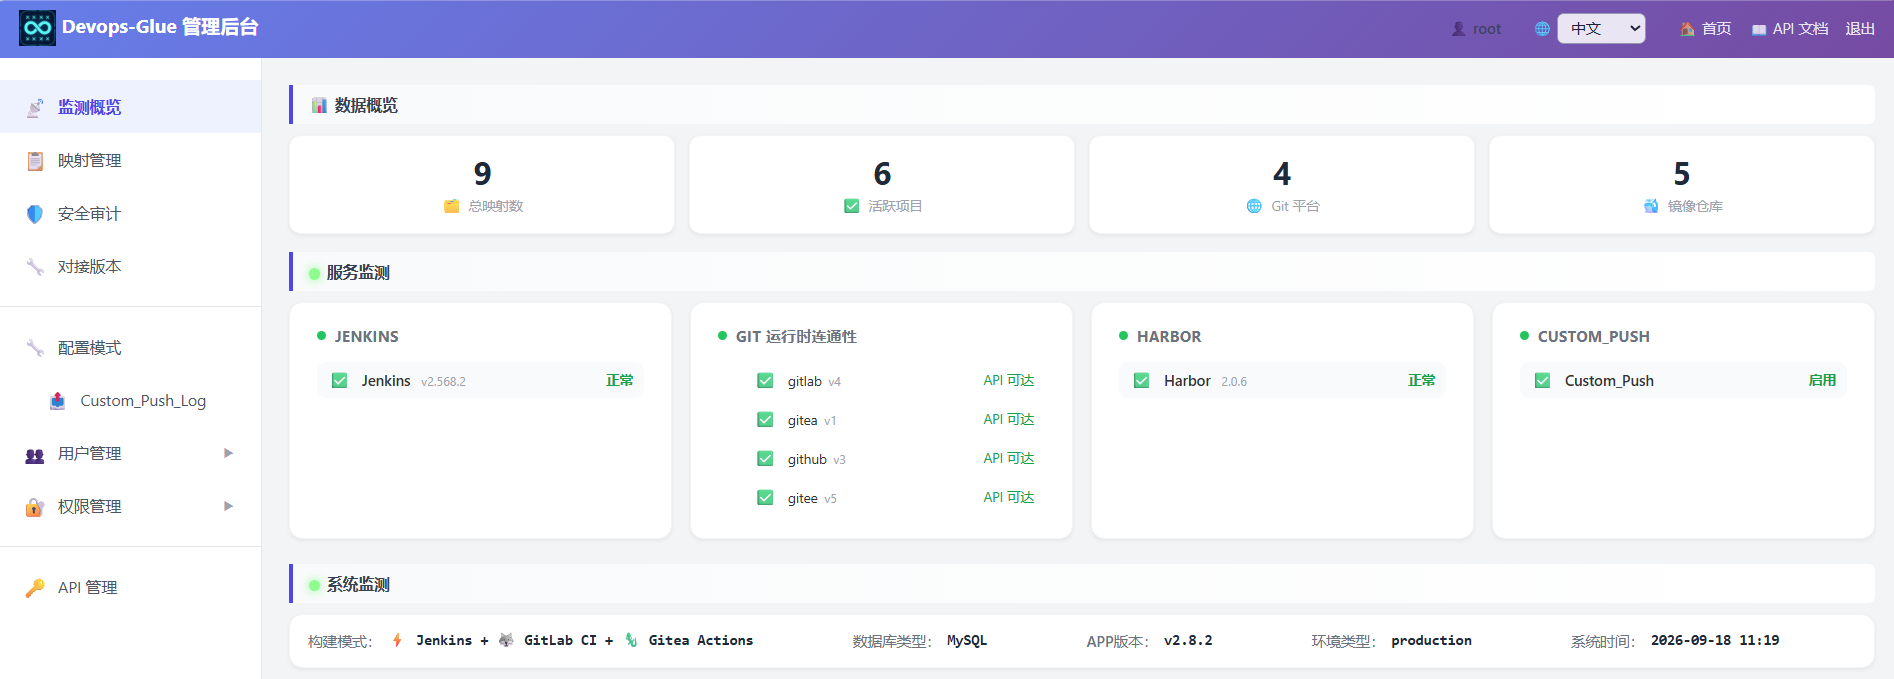
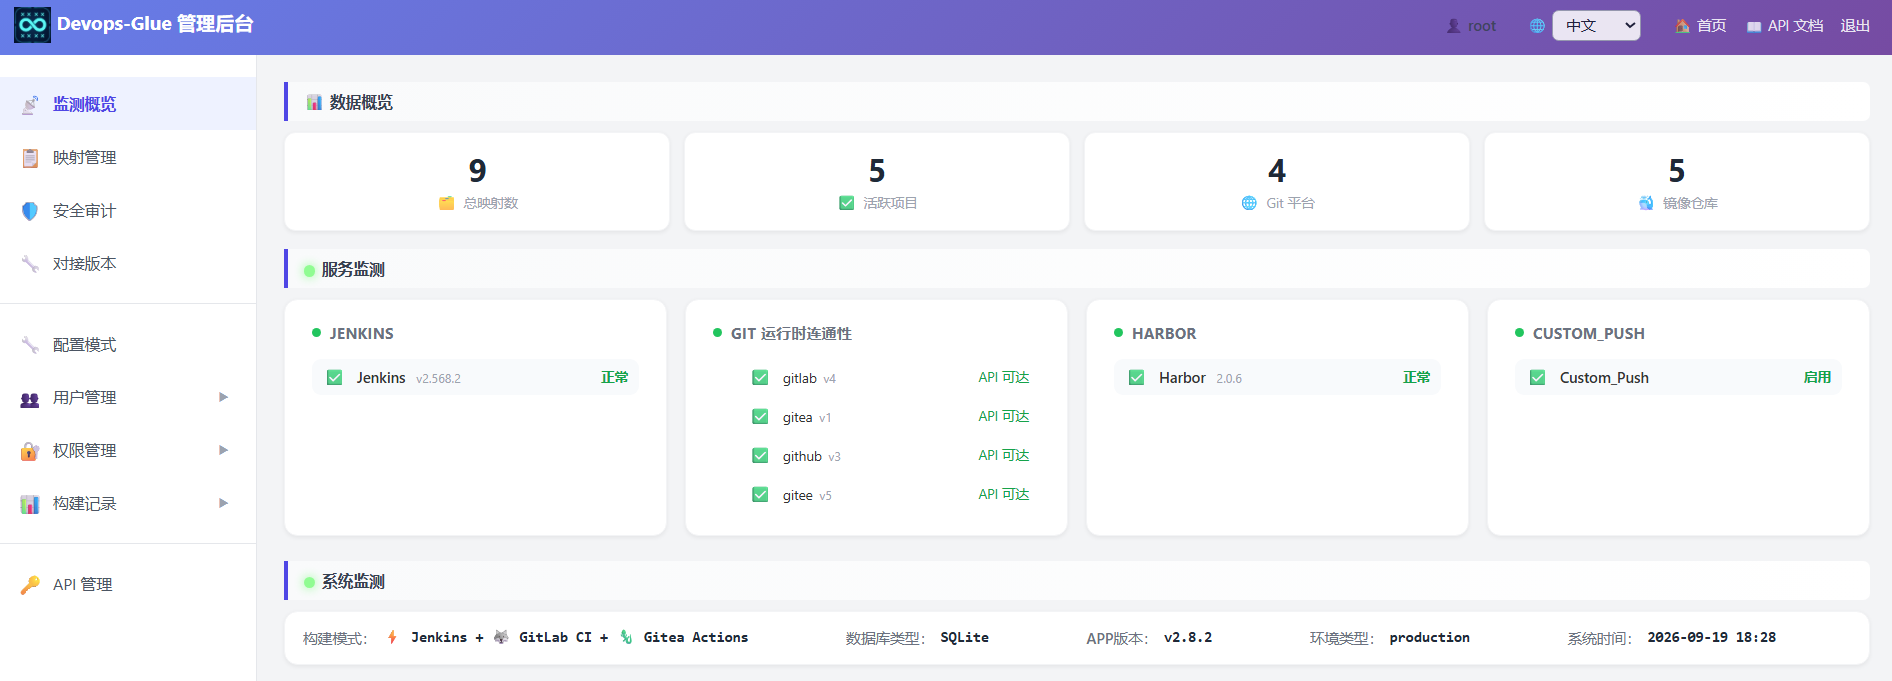
feat: split health check static/probe, friendly error logs, fix first-paint i18n keys

diff --git a/public/assets/admin.js b/public/assets/admin.js
@@ -1,6 +1,7 @@
 const LOGIN_API    = '/api/admin/login';
 const MAP_API      = '/api/admin/job_git_map';
 const HEALTH_API   = '/api/health';
+const HEALTH_STATIC_API = '/api/health/static';
 const MAP_LIST_API  = '/api/main/map/list';
 const VERSIONS_API  = '/api/admin/platform_versions';
 let platforms = [];
@@ -340,7 +341,7 @@ async function loadMonitor() {
 
     // 调用受保护的 /api/health，需要带上 Authorization 头
 
-    function setSvc(iconId, nameId, statId, dotId, ok, ver, label, title) {
+    function setSvc(iconId, nameId, statId, dotId, ok, ver, label, title, i18nKey) {
         const icon = document.getElementById(iconId);
         const name = document.getElementById(nameId);
         const stat = document.getElementById(statId);
@@ -350,16 +351,29 @@ async function loadMonitor() {
             stat.textContent = label;
             stat.className = 'svc-stat ' + (ok===true?'ok':ok===null?'off':'err');
             if (title) stat.title = title; else stat.removeAttribute('title');
+            // 记录动态状态文本对应的 i18n key：语言切换时 _applyToDOM() 只会重翻 textContent
+            //（不影响 class/图标），从而实现"切语言只翻译、不重新探测、不产生重复日志"。
+            // 该 key 同时覆盖了 HTML 默认占位 common.detecting，避免切语言后显示回"检测中…"。
+            // 若该状态文本无翻译 key，则移除标记防止被错误覆盖。
+            if (i18nKey) stat.setAttribute('data-i18n', i18nKey);
+            else stat.removeAttribute('data-i18n');
         }
         if (dot)  { dot.className = 'dot ' + (ok===true?'dot-ok':ok===null?'dot-off':'dot-err'); }
         if (name && ver) name.innerHTML = (name.dataset.base || name.textContent) + ' <span class="svc-ver">' + esc(ver) + '</span>';
     }
 
+    // 并行发起：静态信息（纯 DB/配置，秒回）与外部探测（可能很慢），各自独立渲染
+    const staticReq = fetch(HEALTH_STATIC_API, { headers: authHeaders() });
+    const probeReq  = fetch(HEALTH_API, { headers: authHeaders() });
+
+    // ── 阶段一：立即渲染不依赖外部探测的部分（数据概览 + 系统监测 + Custom_Push）──
     try {
-        const res = await fetch(HEALTH_API, { headers: authHeaders() });
+        const res = await staticReq;
         if (handle401(res)) return;
         const data = await res.json();
-        const chk = data.checks || {};
+        // 静态卡片依赖 __.t() 翻译（如构建模式、数据库类型），首帧语言包可能尚未加载完成，
+        // 先等 i18n 就绪，避免显示翻译 key，且不重复探测外部平台。
+        await __.ready();
         const st  = data.stats || {};
 
         // 统计卡片
@@ -395,12 +409,32 @@ async function loadMonitor() {
         if (sysEnvType)   sysEnvType.textContent   = data.app_env || '—';
         if (sysTime)      sysTime.textContent      = (data.time ? String(data.time).substring(0, 16) : '—');
 
+        // Custom_Push（功能开关检测，不依赖外部网络探测）
+        const cpProviders = data.custom_push_providers || [];
+        const cpEnabled = data.custom_push_enabled || false;
+        const cpOk = cpEnabled && cpProviders.length > 0;
+        const cpLabel = cpEnabled ? __.t('common.enabled') : __.t('common.disabled');
+        const cpKey = cpEnabled ? 'common.enabled' : 'common.disabled';
+        setSvc('icon-custom-push', 'name-custom-push', 'stat-custom-push', 'dot-custom-push', cpOk || null, '', cpLabel, '', cpKey);
+        applyBuildRecordsMenuVisibility(cpEnabled);
+    } catch (e) {
+        // 静态信息失败：保留各卡片占位（"检测中…"/"—"），不整体置错，等待探测阶段
+    }
+
+    // ── 阶段二：外部平台探测结果，独立于静态部分，各卡各自更新 ──
+    try {
+        const res = await probeReq;
+        if (handle401(res)) return;
+        const data = await res.json();
+        const chk = data.checks || {};
+
         // Jenkins
         const jRaw = chk.jenkins;
         const jOk  = jRaw === true;
         const jVer = chk.jenkins_version || '';
         const jLabel = jOk ? __.t('common.ok') : jRaw===null ? __.t('common.na') : __.t('common.unreachable');
-        setSvc('icon-jenkins', 'name-jenkins', 'stat-jenkins', 'dot-jenkins', jRaw, jVer ? 'v'+jVer : '', jLabel);
+        const jKey = jOk ? 'common.ok' : (jRaw === null ? 'common.na' : 'common.unreachable');
+        setSvc('icon-jenkins', 'name-jenkins', 'stat-jenkins', 'dot-jenkins', jRaw, jVer ? 'v'+jVer : '', jLabel, '', jKey);
 
         // Git 平台
         const gitRows = document.getElementById('git-rows');
@@ -408,21 +442,22 @@ async function loadMonitor() {
         const dotGit = document.getElementById('dot-git');
         if (gitData === null || gitData === undefined) {
             dotGit.className = 'dot dot-off';
-            gitRows.innerHTML = '<div class="svc-row parent"><span class="svc-icon">⚪</span><span class="svc-name">' + __.t('monitor.git_platforms') + '</span><span class="svc-stat off">' + __.t('monitor.git_no_ref') + '</span></div>';
+            gitRows.innerHTML = '<div class="svc-row parent"><span class="svc-icon">⚪</span><span class="svc-name">' + __.t('monitor.git_platforms') + '</span><span class="svc-stat off" data-i18n="monitor.git_no_ref">' + __.t('monitor.git_no_ref') + '</span></div>';
         } else if (Array.isArray(gitData) && gitData.length > 0) {
             dotGit.className = gitData.every(g=>g.reachable) ? 'dot dot-ok' : 'dot dot-err';
             gitRows.innerHTML = gitData.map(g => {
                 const ok = g.reachable;
-                const label = ok ? __.t('monitor.git_reachable') : __.t('monitor.git_unreachable');
+                const okKey = ok ? 'monitor.git_reachable' : 'monitor.git_unreachable';
+                const label = __.t(okKey);
                 return '<div class="svc-row child">' +
                     '<span class="svc-icon">' + (ok ? '✅' : '❌') + '</span>' +
                     '<span class="svc-name">' + esc(g.name) + '<span class="svc-ver">' + esc(g.api_version || '') + '</span></span>' +
-                    '<span class="svc-stat ' + (ok?'ok':'err') + '">' + label + '</span>' +
+                    '<span class="svc-stat ' + (ok?'ok':'err') + '" data-i18n="' + okKey + '">' + label + '</span>' +
                 '</div>';
             }).join('') || '<div class="svc-row child"><span class="svc-icon">⚪</span><span class="svc-name">' + __.t('js.no_configured_platform') + '</span></div>';
         } else {
             dotGit.className = 'dot dot-off';
-            gitRows.innerHTML = '<div class="svc-row parent"><span class="svc-icon">⚪</span><span class="svc-name">' + __.t('monitor.git_platforms') + '</span><span class="svc-stat off">' + __.t('common.unknown') + '</span></div>';
+            gitRows.innerHTML = '<div class="svc-row parent"><span class="svc-icon">⚪</span><span class="svc-name">' + __.t('monitor.git_platforms') + '</span><span class="svc-stat off" data-i18n="common.unknown">' + __.t('common.unknown') + '</span></div>';
         }
 
         // Harbor
@@ -430,25 +465,16 @@ async function loadMonitor() {
         const hOk = hOkRaw === true;
         const hVer = chk.harbor_version || '';
         const hLabel = hOk ? __.t('common.ok') : hOkRaw===null ? __.t('common.not_configured') : __.t('common.unreachable');
-        setSvc('icon-harbor', 'name-harbor', 'stat-harbor', 'dot-harbor', hOk, hVer, hLabel, '');
-
-        // Custom_Push
-        const cpProviders = data.custom_push_providers || [];
-        const cpEnabled = data.custom_push_enabled || false;
-        const cpOk = cpEnabled && cpProviders.length > 0;
-        const cpLabel = cpEnabled
-            ? __.t('common.enabled')
-            : __.t('common.disabled');
-        setSvc('icon-custom-push', 'name-custom-push', 'stat-custom-push', 'dot-custom-push', cpOk || null, '', cpLabel);
-        applyBuildRecordsMenuVisibility(cpEnabled);
-
-    } catch(e) {
-        const msg = e.name === 'AbortError' ? __.t('js.timeout') : __.t('js.cannot_connect');
-        setSvc('icon-jenkins', 'name-jenkins', 'stat-jenkins', 'dot-jenkins', false, '', msg);
+        const hKey = hOk ? 'common.ok' : (hOkRaw === null ? 'common.not_configured' : 'common.unreachable');
+        setSvc('icon-harbor', 'name-harbor', 'stat-harbor', 'dot-harbor', hOk, hVer, hLabel, '', hKey);
+    } catch (e) {
+        const ek = e.name === 'AbortError' ? 'js.timeout' : 'js.cannot_connect';
+        const msg = __.t(ek);
+        setSvc('icon-jenkins', 'name-jenkins', 'stat-jenkins', 'dot-jenkins', false, '', msg, '', ek);
         document.getElementById('dot-git').className = 'dot dot-err';
-        document.getElementById('git-rows').innerHTML = '<div class="svc-row parent"><span class="svc-icon">❌</span><span class="svc-name">' + __.t('monitor.git_platforms') + '</span><span class="svc-stat err">' + msg + '</span></div>';
-        setSvc('icon-harbor', 'name-harbor', 'stat-harbor', 'dot-harbor', false, '', msg);
-        setSvc('icon-custom-push', 'name-custom-push', 'stat-custom-push', 'dot-custom-push', false, '', msg);
+        document.getElementById('git-rows').innerHTML = '<div class="svc-row parent"><span class="svc-icon">❌</span><span class="svc-name">' + __.t('monitor.git_platforms') + '</span><span class="svc-stat err" data-i18n="' + ek + '">' + msg + '</span></div>';
+        setSvc('icon-harbor', 'name-harbor', 'stat-harbor', 'dot-harbor', false, '', msg, '', ek);
+        // Custom_Push 属静态（功能开关）阶段，在此不再标错
     }
 }
 
@@ -2919,8 +2945,10 @@ document.addEventListener('i18n-changed', function() {
     var activeTab = document.querySelector('.sidebar .menu-item.active');
     if (activeTab) {
         var tabName = activeTab.getAttribute('data-tab');
-        if (tabName === 'monitor') loadMonitor();
-        else if (tabName === 'mapping') { if (currentMapView === 'topology') loadTopology(); else loadMaps(); }
+        // monitor：语言切换时不再重复调用 loadMonitor()。健康检查用于探测外部平台连通性，
+        // 与语言无关；且它会串行探测各平台（可能耗时数秒、失败时打印日志），重复触发会带来
+        // 重复的 /api/health 请求（日志翻倍）。进入 monitor 页时 switchTab 已加载过一次。
+        if (tabName === 'mapping') { if (currentMapView === 'topology') loadTopology(); else loadMaps(); }
         else if (tabName === 'security') loadSecurityChecks();
         else if (tabName === 'versions') loadVersions();
         else if (tabName === 'mode') loadSettings();

diff --git a/public/assets/i18n.js b/public/assets/i18n.js
@@ -22,6 +22,10 @@
 
     let currentLang = 'zh-CN';
     let messages = {};
+    // 语言包就绪 Promise：_load 的 XHR 完成（成功或失败）后 resolve，
+    // 供依赖 __.t() 的动态渲染（如监测页静态卡片）先 await，避免首次加载时显示翻译 key。
+    let resolveReady;
+    const readyPromise = new Promise(function (resolve) { resolveReady = resolve; });
 
     window.__ = {
         get lang() { return currentLang; },
@@ -35,6 +39,12 @@
                 });
             }
             return msg;
+        },
+
+        // 返回一个 Promise，语言包加载完成（成功或失败）后 resolve。
+        // 需在获取翻译结果前 await 它，避免首帧渲染读到 key。
+        ready: function () {
+            return readyPromise;
         },
 
         init: function (lang) {
@@ -62,10 +72,12 @@
                 }
                 self._applyToDOM();
                 document.dispatchEvent(new CustomEvent('i18n-changed', { detail: { lang: currentLang } }));
+                resolveReady();
             };
             xhr.onerror = function () {
                 self._applyToDOM();
                 document.dispatchEvent(new CustomEvent('i18n-changed', { detail: { lang: currentLang } }));
+                resolveReady();
             };
             xhr.send();
         },

diff --git a/src/Controller/MainController.php b/src/Controller/MainController.php
@@ -231,21 +231,22 @@ class MainController extends BaseController
         ];
 
         if (in_array(AppConfig::PROVIDER_JENKINS, $this->config->getBuildModes(), true)) {
+            $jk = $this->config->getJenkinsConfig();
+            $jenkinsUrl = rtrim((string)($jk['url'] ?? ''), '/');
             try {
                 // 健康检查用独立短超时 Client，避免 Jenkins 宕机时卡住
-                $jk = $this->config->getJenkinsConfig();
                 $probe = new \GuzzleHttp\Client([
                     'timeout'         => 5,
                     'connect_timeout' => 3,
                     'auth'            => [$jk['user'], $jk['token']],
                     'http_errors'     => false,
                 ]);
-                $probe->get(rtrim($jk['url'], '/') . '/api/json');
+                $probe->get($jenkinsUrl . '/api/json');
                 $checks['jenkins'] = true;
                 // 版本号沿用 JenkinsService 缓存（短超时探测连通性即可）
                 $checks['jenkins_version'] = $this->jenkins->getVersion();
             } catch (\Exception $e) {
-                \App\Helper\Log::exception($e);
+                \App\Helper\Log::error('[健康检查] Jenkins 连接失败', ['platform' => 'jenkins', 'url' => $jenkinsUrl, 'error' => $e->getMessage()]);
                 $checks['jenkins'] = false;
             }
         } else {
@@ -283,6 +284,7 @@ class MainController extends BaseController
                         $httpCode = $resp->getStatusCode();
                         $reachable = $httpCode > 0 && $httpCode < 500;
                     } catch (\Exception $e) {
+                        \App\Helper\Log::error('[健康检查] ' . $name . ' 连接失败', ['platform' => $name, 'url' => (string)$apiUrl, 'error' => $e->getMessage()]);
                         $reachable = false;
                     }
                 }
@@ -295,10 +297,12 @@ class MainController extends BaseController
         }
 
         if ($this->harbor) {
+            $harborUrl = rtrim((string)($this->config->getHarborConfig()['url'] ?? ''), '/');
+            $probeLogged = false;
             try {
                 // 健康检查用短超时 client，不影响正常 Harbor 操作
                 $qClient = new \GuzzleHttp\Client([
-                    'base_uri' => $this->config->getHarborConfig()['url'] ?? '',
+                    'base_uri' => $harborUrl,
                     'auth'     => [$this->config->getHarborConfig()['username'] ?? 'admin', $this->config->getHarborConfig()['password'] ?? ''],
                     'timeout'  => 5,
                     'connect_timeout' => 3,
@@ -326,12 +330,20 @@ class MainController extends BaseController
                         }
                     } catch (\Throwable $e) {
                         $componentResults[$name] = false;
+                        // 连接类失败：三个组件会同时连不上，这里只记一次避免刷屏
+                        if (!$probeLogged) {
+                            \App\Helper\Log::error('[健康检查] Harbor 连接失败', ['platform' => 'harbor', 'url' => $harborUrl, 'error' => $e->getMessage()]);
+                            $probeLogged = true;
+                        }
                     }
                 }
                 $checks['harbor'] = !in_array(false, $componentResults, true);
                 $checks['harbor_version'] = $this->harbor->getHarborVersion() ?? 'v2';
                 $checks['harbor_components'] = $componentResults;
             } catch (\Exception $e) {
+                if (!$probeLogged) {
+                    \App\Helper\Log::error('[健康检查] Harbor 连接失败', ['platform' => 'harbor', 'url' => $harborUrl, 'error' => $e->getMessage()]);
+                }
                 $checks['harbor'] = false;
                 $checks['harbor_version'] = $this->harbor->getHarborVersion() ?? 'v2';
                 $checks['harbor_components'] = null;
@@ -346,7 +358,32 @@ class MainController extends BaseController
             && ($checks['harbor'] === true || $checks['harbor'] === null);
         $status = $allOk ? 'ok' : 'degraded';
 
-        // 统计卡片数据
+        $data = $this->buildHealthStaticData();
+        $data['status'] = $status;
+        $data['checks'] = $checks;
+
+        $response->getBody()->write(json_encode($data));
+        $httpCode = $allOk ? 200 : 503;
+        return $response->withStatus($httpCode)->withHeader('Content-Type', 'application/json');
+    }
+
+    /**
+     * 快速健康信息（不依赖外部探测）。
+     * 仅返回数据概览 + 系统信息 + Custom_Push，不探测 Jenkins / Git / Harbor，
+     * 毫秒级返回，供前端先渲染非探测卡片，避免被外部探测拖慢整个页面。
+     */
+    public function healthStatic(Request $request, Response $response): Response
+    {
+        $data = $this->buildHealthStaticData();
+        $data['status'] = 'ok';
+        return $this->output($response, $data, $request);
+    }
+
+    /**
+     * 汇总不依赖外部网络探测的健康信息（统计卡片 + 系统监测 + Custom_Push）。
+     */
+    private function buildHealthStaticData(): array
+    {
         $stats = ['total_maps' => 0, 'active_maps' => 0, 'git_platforms' => 0, 'harbor_repos' => 0];
         try {
             $pdo = $this->pdo;
@@ -359,9 +396,7 @@ class MainController extends BaseController
         } catch (\Exception $e) {
         }
 
-        $data = [
-            'status'                => $status,
-            'checks'                => $checks,
+        return [
             'stats'                 => $stats,
             'build_mode'            => $this->config->getBuildMode(),
             'build_modes'           => $this->config->getBuildModes(),
@@ -373,10 +408,6 @@ class MainController extends BaseController
             'app_env'               => $this->config->getAppEnv(),
             'time'                  => date('Y-m-d H:i:s'),
         ];
-
-        $response->getBody()->write(json_encode($data));
-        $httpCode = $allOk ? 200 : 503;
-        return $response->withStatus($httpCode)->withHeader('Content-Type', 'application/json');
     }
 
     /**

diff --git a/src/Helper/Log.php b/src/Helper/Log.php
@@ -15,19 +15,29 @@ class Log
      */
     public static function exception(\Throwable $e): void
     {
+        self::error($e->getMessage(), ['trace' => $e->getTraceAsString()]);
+    }
+
+    /**
+     * 记录一条友好错误日志（message + 简要 context，不携带堆栈）。
+     * 若 Logger 未启用，回退到 error_log。
+     */
+    public static function error(string $message, array $context = []): void
+    {
         try {
             if (!self::$initialized) {
                 self::initLogger();
             }
             if (self::$logger !== null) {
-                self::$logger->error($e->getMessage(), ['trace' => $e->getTraceAsString()]);
+                self::$logger->error($message, $context);
                 return;
             }
             // 若 Logger 初始化失败或未启用，回退到 error_log
-            error_log((string)$e);
+            $suffix = empty($context) ? '' : ' ' . json_encode($context, JSON_UNESCAPED_UNICODE);
+            error_log($message . $suffix);
         } catch (\Throwable $inner) {
             // 任何失败都回退到 PHP 内置日志，避免阻塞原有流程
-            error_log((string)$e);
+            error_log($message);
         }
     }
 

diff --git a/config/routes.php b/config/routes.php
@@ -31,6 +31,8 @@ $app->group('/api', function (RouteCollectorProxy $api) {
 
     // 健康检查（需要鉴权）：/api/health 返回详细检查信息，受 AuthMiddleware 保护
     $api->map(['GET'], '/health', [MainController::class, 'healthDetail'])->add(AuthMiddleware::class);
+    // 快速健康信息（需要鉴权）：不探测外部平台，毫秒级返回，用于先渲染非探测卡片
+    $api->map(['GET'], '/health/static', [MainController::class, 'healthStatic'])->add(AuthMiddleware::class);
 
     // 国际化：获取指定语言的语言包（供前端使用）
     $api->get('/i18n/{locale}', [MainController::class, 'i18n']);
